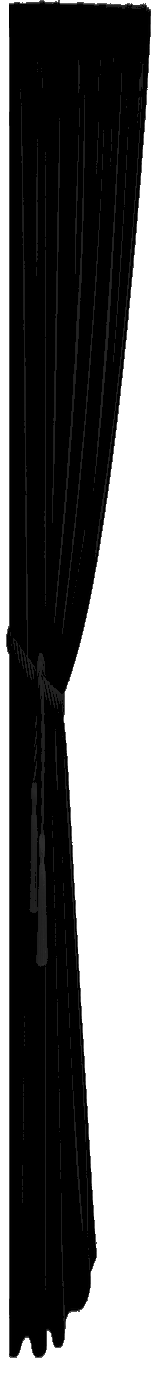
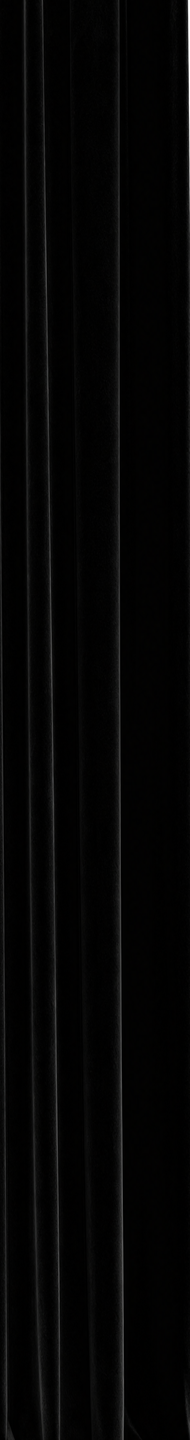
docs: park per-pixel chrome architecture + procedural curtain v1
- docs/per-pixel-chrome-architecture.md: the pixel-by-pixel design idea,
  precedents, hybrid reality (procedural chrome + sampled windows),
  GPU-vs-CPU paths, grid overlay as step zero
- curtain.zig: procedural 'Kidul fold' replaces PNG asset — straight
  black-velvet drop, 6 jittered fold columns with border-color sheen,
  scalloped gather, hem sweeping up toward center, hairline rim light.
  Old asset backed up as curtain_left_tied_20260805_bak.png

diff --git a/docs/per-pixel-chrome-architecture.md b/docs/per-pixel-chrome-architecture.md
@@ -1,0 +1,73 @@
+# Per-pixel chrome architecture — the big idea (parked 2026-08-05)
+
+## The thought
+
+Design the whole screen pixel by pixel, not in layers: for each pixel,
+compute the final color directly — wallpaper → curtains → window → chrome
+→ peek → kbottle → cursor evaluated as one function `color(x, y)` instead
+of scene-graph → buffers → GPU blending.
+
+## Precedent (is it done anywhere?)
+
+1. **Shadertoy / demoscene fragment shaders** — exactly this model: one
+   function per pixel, whole scene computed procedurally, no layers.
+   Proof the model produces stunning visuals.
+2. **Game HUD/UI in shaders** — entire UIs in a single fullscreen fragment
+   pass. Still rasterizing shapes, not true per-pixel scene evaluation.
+3. **Software renderers / wlroots pixman** — KidulWM already runs llvmpipe
+   in the VM (pixels computed on CPU), but still *layer compositing*.
+
+Nobody uses the per-pixel model for a whole compositor. The space is open.
+
+## Where it sings vs. where it fights
+
+**Sings:**
+- Our decorative chrome is already procedural math (curtains, kbottle,
+  helix, gauges, glass). A per-pixel evaluator for the **chrome layer**
+  (everything except client window contents) is feasible today.
+- Anti-aliasing, glow, consistent lighting — free when you own every
+  pixel's math. One light source (the border color) shading ALL chrome
+  consistently. "Bob's extra special shading", system-wide.
+- The 10px design-grid overlay becomes a shader mode, free.
+
+**Fights:**
+- **Client windows.** Apps' pixels arrive as buffers/textures; you can
+  only sample them. The end-state is necessarily HYBRID: procedural
+  per-pixel chrome + sampled window content. (That's fine — every
+  compositor is hybrid at the window boundary.)
+- **Performance.** CPU per-pixel at 4K = 8.3M evaluations/frame. Needs
+  either GPU fragment shaders (fast, shadertoy model) or disciplined
+  Zig @Vector SIMD. llvmpipe already burns 300% CPU just blending.
+- **Text.** Keep Cairo/FreeType for glyph rasterization; sample text
+  surfaces like window textures.
+
+## The two candidate paths
+
+1. **GPU path (sane):** one fragment shader per output for chrome.
+   Uniforms: theme colors, helix bands, tray state, grid mode. Client
+   windows composited beneath as textures. A few hundred lines of GLSL
+   + a wlroots GLES custom pass.
+2. **CPU path (Ziggy):** `renderChromePixel(x, y, state)` in Zig with
+   @Vector into one buffer per output; windows composited over. Slower,
+   but pure Zig and unit-testable per pixel — visual regression tests
+   become `assert(pixel(37,412) == gold)`.
+
+## Why it matters for KidulSD
+
+Every other compositor is a layer blender. This would make KidulWM the
+first where chrome is *computed*, not assembled — one coherent visual
+function instead of a pile of Cairo widgets that grew separately.
+kbottle, curtains, helix, gauges, tray stop being independent widgets
+and become one drawing with shared lighting and shared geometry rules.
+
+## Step zero (tomorrow)
+
+The 10px design-grid overlay (`kidulwm-control grid_overlay on|off`,
+heavier lines every 100px, origin at screen corner) — it is the
+coordinate system the per-pixel model will use. Build it first; use it
+to finish the curtains by talking in grid cells instead of vibes.
+
+## Status
+
+PARKED — revisit after dogfooding KidulSD on the host ("meaty chunks"
+first: host GPU/audio, kmedia phase 2, settings app).
